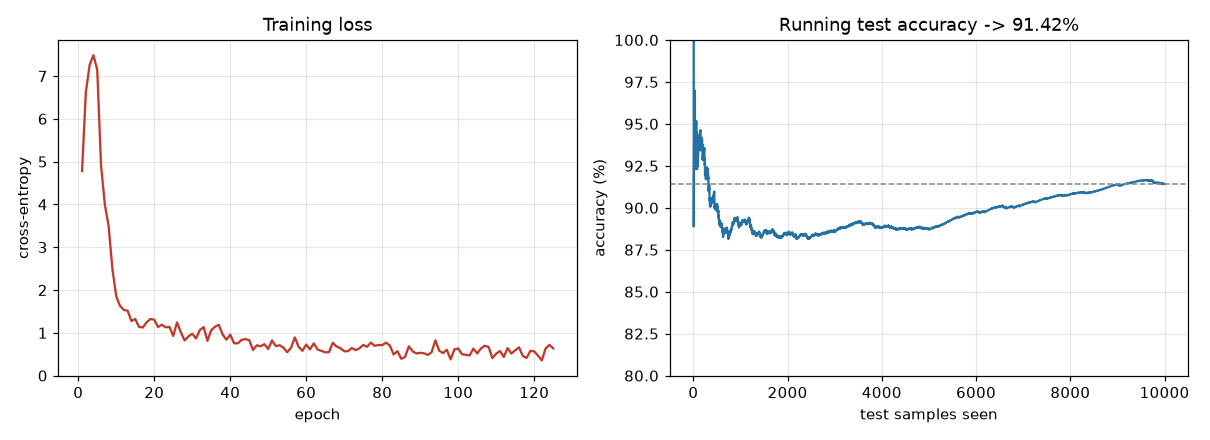
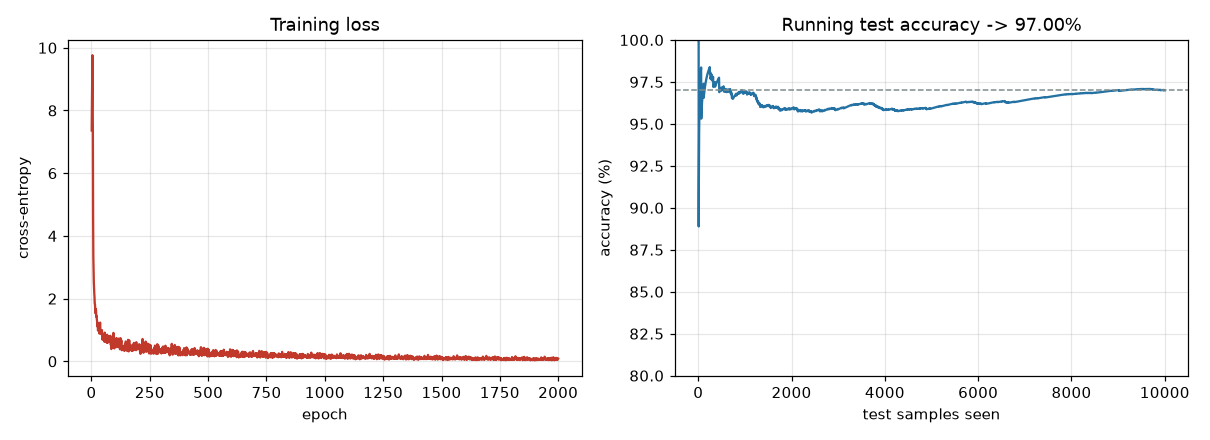
Make the trainer a CLI: never retrain an existing pickle by default; --train/--resume, --iterations/--lr/--batch-size/--arch; lower default lr (1.0 oscillates)

diff --git a/digit-classifier/train_classifierMBGD.py b/digit-classifier/train_classifierMBGD.py
@@ -1,69 +1,115 @@
 import os
+import argparse
 import matplotlib
-from mnist.loader import MNIST
 import numpy as np
-from Classifier_minibatchGD import classifier
-from Classifier_minibatchGD import normalize
+from mnist.loader import MNIST
+from Classifier_minibatchGD import classifier, normalize
 from get_mnist import ensure_mnist
 
+PICKLE = "NN.pickle"
+DEFAULT_ARCH = [784, 100, 100, 10]     # input(28x28=784) -> two hidden -> output(10 digits)
 
-ensure_mnist("samples")   # download MNIST on first run if it isn't here yet
-mndata = MNIST("samples", gz=True)
-ftraining_images, ftraining_labels = mndata.load_training()
-testing_imgs, testing_lbls = mndata.load_testing()
 
-training_images, training_labels = (
-    normalize(ftraining_images[0:50000]),
-    np.array(ftraining_labels[0:50000]).reshape(50000, 1),
-)
+def build_args():
+    p = argparse.ArgumentParser(
+        description="Train or evaluate a from-scratch MNIST digit classifier (raw numpy).",
+        formatter_class=argparse.RawDescriptionHelpFormatter,
+        epilog=(
+            "The dataset: 60,000 training images (used here as 50,000 train + 10,000 validation)\n"
+            "and 10,000 test images, each a 28x28 = 784-pixel grayscale digit.\n\n"
+            "How training works: one PASS over the 50,000 training images splits them into\n"
+            "mini-batches of --batch-size (e.g. 400 -> 125 batches) and updates the weights once per\n"
+            "batch. --iterations is how many full passes to run.\n\n"
+            "Default (no --train/--resume): just load {p} and evaluate on the 10k test set.\n\n"
+            "Examples:\n"
+            "  python train_classifierMBGD.py                        # evaluate the saved network\n"
+            "  python train_classifierMBGD.py --train                # train a new one from scratch\n"
+            "  python train_classifierMBGD.py --train --iterations 20 --lr 0.1\n"
+            "  python train_classifierMBGD.py --resume --iterations 5    # train the saved one more"
+        ).format(p=PICKLE),
+    )
+    mode = p.add_mutually_exclusive_group()
+    mode.add_argument("--train", action="store_true",
+                      help="train a NEW network from scratch, then evaluate (overwrites %s)" % PICKLE)
+    mode.add_argument("--resume", action="store_true",
+                      help="continue training the existing %s, then evaluate" % PICKLE)
+    p.add_argument("--iterations", type=int, default=10, metavar="N",
+                   help="full passes over the 50,000 training images (default: 10)")
+    p.add_argument("--lr", type=float, default=None, metavar="RATE",
+                   help="learning rate. Default 0.1 for --train; --resume keeps the saved rate unless "
+                        "you pass this. Higher = faster but oscillates (the original used 1.0, which "
+                        "reaches ~97%% but bounces a lot); 0.1 is slower and much smoother.")
+    p.add_argument("--batch-size", type=int, default=400, metavar="N", dest="batch_size",
+                   help="images per mini-batch (default: 400 -> 125 batches per pass)")
+    p.add_argument("--arch", type=int, nargs="+", default=DEFAULT_ARCH, metavar="SIZE",
+                   help="layer sizes including input 784 and output 10 (default: 784 100 100 10)")
+    return p.parse_args()
 
-validation_images, validation_labels = (
-    normalize(ftraining_images[50000:60000]),
-    np.array(ftraining_labels[50000:60000]).reshape(10000, 1),
-)
 
-testing_imgs, testing_lbls = (
-    normalize(testing_imgs),
-    np.array(testing_lbls).reshape(10000, 1),
-)
+def load_data():
+    ensure_mnist("samples")            # downloads MNIST (~11MB) into samples/ on first run
+    mndata = MNIST("samples", gz=True)
+    train_i, train_l = mndata.load_training()
+    test_i, test_l = mndata.load_testing()
+    X = normalize(train_i[0:50000])
+    y = np.array(train_l[0:50000]).reshape(50000, 1)
+    Xte = normalize(test_i)
+    yte = np.array(test_l).reshape(10000, 1)
+    return X, y, Xte, yte
 
-if os.path.exists("NN.pickle"):
-    a = classifier()
-    a.import_nn("NN.pickle")
-else:
-    # no pretrained weights shipped in this archive -- train from scratch
-    # (settings from the best run below: [784, 100, 100, 10], lr=1 --> ~97.39%)
-    a = classifier([784, 100, 100, 10], lr=1)
-    a.fit(training_images, training_labels, batchsize=400, epochs=125)
-    a.export("NN")
-# a.fit(training_images, training_labels, 400, 125, iterations=4)
-# a.fit(training_images, training_labels, batchsize=400, epochs=125)
 
-# Plot windows only make sense on an interactive backend; a headless run skips them
-# (avoiding matplotlib's "FigureCanvasAgg is non-interactive" warning) -- use
-# make_figures.py to render the figures to files instead.
-_interactive = matplotlib.get_backend().lower() not in ("agg", "pdf", "ps", "svg", "template")
+def train(net, X, y, batch_size, iterations):
+    batches = len(X) // batch_size     # drop the remainder (< batch_size)
+    if batches < 1:
+        raise SystemExit("--batch-size %d is larger than the 50,000-image training set." % batch_size)
+    print("Training set: {} images. Each pass = {} batches of {} (lr={}). Running {} pass(es)..."
+          .format(len(X), batches, batch_size, net.lr, iterations))
+    net.fit(X, y, batchsize=batch_size, epochs=batches, iterations=iterations)
+    net.export(os.path.splitext(PICKLE)[0])
+    print("Saved weights to {}.".format(PICKLE))
 
-if _interactive:
-    a.plot_loss()
 
-# a.test(validation_images, validation_labels, epochs=10000, testing_method="validation", show_activations=True)
-a.test(testing_imgs, testing_lbls, epochs=10000, testing_method="testing", show_activations=False)
+def main():
+    args = build_args()
+    X, y, Xte, yte = load_data()
 
-if _interactive:
-    a.plot_accuracy()
-else:
-    print("(non-interactive matplotlib backend -- skipping plot windows; run make_figures.py to save them)")
-print("\n\n\n\n\n")
+    if args.train:
+        net = classifier(args.arch, lr=(args.lr if args.lr is not None else 0.1))
+        train(net, X, y, args.batch_size, args.iterations)
+    elif args.resume:
+        if not os.path.exists(PICKLE):
+            raise SystemExit("No %s to resume from -- run with --train first." % PICKLE)
+        net = classifier()
+        net.import_nn(PICKLE)
+        if args.lr is not None:
+            net.lr = args.lr
+        train(net, X, y, args.batch_size, args.iterations)
+    else:
+        if not os.path.exists(PICKLE):
+            raise SystemExit(
+                "No %s found. Train one first:\n  python train_classifierMBGD.py --train" % PICKLE)
+        net = classifier()
+        net.import_nn(PICKLE)
+        print("Loaded %s -- evaluating only (pass --train or --resume to train)." % PICKLE)
 
-"""
-How to adjust hyper-parameters:
-1. Make sure training batches aren't too high, but aren't too low (don't burn the cpu)
-2. adjust learning rate accordingly
-"""
+    # evaluate on the 10,000-image test set
+    net.test(Xte, yte, epochs=10000, testing_method="testing", show_activations=False)
 
-# batchsize=625, epochs=80 [784, 20, 20, 10], lr=5 --> accuracy ==> ~~93%
-# batchsize=400, epochs=125 [784, 100, 10], lr=.1 --> accuracy ==> ~~93%
-# batchsize=400, epochs=125, [784, 200, 10], lr=.1 --> accuracy ==> ~~95%
-# batchsize=400, epochs=125, [784, 100, 100, 10], lr=1 --> accuracy ==> ~~96.5%
-# batchsize=400, epochs=125, [784, 100, 100, 10], lr=1 --> accuracy ==> ~~97.39%
+    # plot windows only make sense on an interactive backend; a headless run skips them
+    # (avoiding matplotlib's "FigureCanvasAgg is non-interactive" warning).
+    interactive = matplotlib.get_backend().lower() not in ("agg", "pdf", "ps", "svg", "template")
+    if interactive:
+        if net.loss:
+            net.plot_loss()
+        net.plot_accuracy()
+    else:
+        print("(non-interactive matplotlib backend -- skipping plot windows; run make_figures.py to save them)")
+
+
+if __name__ == "__main__":
+    main()
+
+# Reference: accuracy reached in past runs (single classifier, [784, 100, 100, 10]):
+#   --batch-size 625 --iterations ~80 --lr 5    --> ~93%   (arch [784, 20, 20, 10])
+#   --batch-size 400 --iterations ~125 --lr 0.1 --> ~93-95%
+#   --batch-size 400 --iterations many --lr 1   --> ~96.5-97.4% (but the loss oscillates)

diff --git a/README.md b/README.md
@@ -31,10 +31,10 @@ flagship) → an unfinished **CNN**.
 ### MNIST digit classifier
 
 A from-scratch mini-batch-gradient-descent MLP (`784 → 100 → 100 → 10`), trained on 50k digits and
-evaluated on 10k it never saw. Running the trainer today reaches **roughly 90-91% test accuracy** in
-a single pass - it varies a little run-to-run with the random initialization (the figure below shows
-a 91.4% run; the hyperparameter log in the trainer reached ~97.4% with resumed/multi-iteration
-training).
+evaluated on 10k it never saw. A single pass over the data reaches **~90-91%**; the default `--train`
+(10 passes) climbs into the **mid-90s**, and the hyperparameter log in the trainer reached ~97.4% with
+longer training. Accuracy varies a little run-to-run with the random initialization. The figure below
+shows a representative single-pass run (regenerate it from your own network with `make_figures.py`):
 
 ![Training loss and test accuracy](assets/training_curves.png)
 
@@ -94,17 +94,26 @@ python boop.py
 python xor_bias_added.py
 ```
 
-**Digit classifier** (the flagship):
+**Digit classifier** (the flagship) - a small CLI, `python train_classifierMBGD.py --help` explains
+the dataset, batching, and every option:
 
 ```
 cd digit-classifier
-python train_classifierMBGD.py  # downloads MNIST on first run, trains, then evaluates
+python train_classifierMBGD.py --train        # train a new network from scratch, then evaluate
+python train_classifierMBGD.py                # later: just load NN.pickle and evaluate (no retrain)
+python train_classifierMBGD.py --resume --iterations 5   # train the saved network further
 ```
 
-The trainer fetches MNIST automatically on first run (~11MB into `samples/`); you can also pre-fetch
-it with `python get_mnist.py`. With no `NN.pickle` present it trains from scratch (125 epochs, a few
-minutes on CPU), exports the weights, and evaluates - printing per-digit predictions and the final
-accuracy. Subsequent runs load `NN.pickle` and only evaluate.
+MNIST is fetched automatically on the first run (~11MB into `samples/`; or pre-fetch with
+`python get_mnist.py`). `--train` builds a fresh `784 -> 100 -> 100 -> 10` network, trains for
+`--iterations` full passes over the 50k images, saves `NN.pickle`, and evaluates on the 10k test set.
+Running with no flag never retrains - it only evaluates the saved network. Key options:
+
+- `--iterations N` - full passes over the data (default 10); more = lower loss, longer runtime
+- `--lr RATE` - learning rate (default 0.1). Higher trains faster but oscillates - the original 1.0
+  reaches ~97% yet bounces a lot; 0.1 is slower and much smoother
+- `--batch-size N` - images per mini-batch (default 400 -> 125 batches per pass)
+- `--arch ...` - layer sizes (default `784 100 100 10`)
 
 **Regenerate the figures** (after training, with MNIST downloaded):
 
